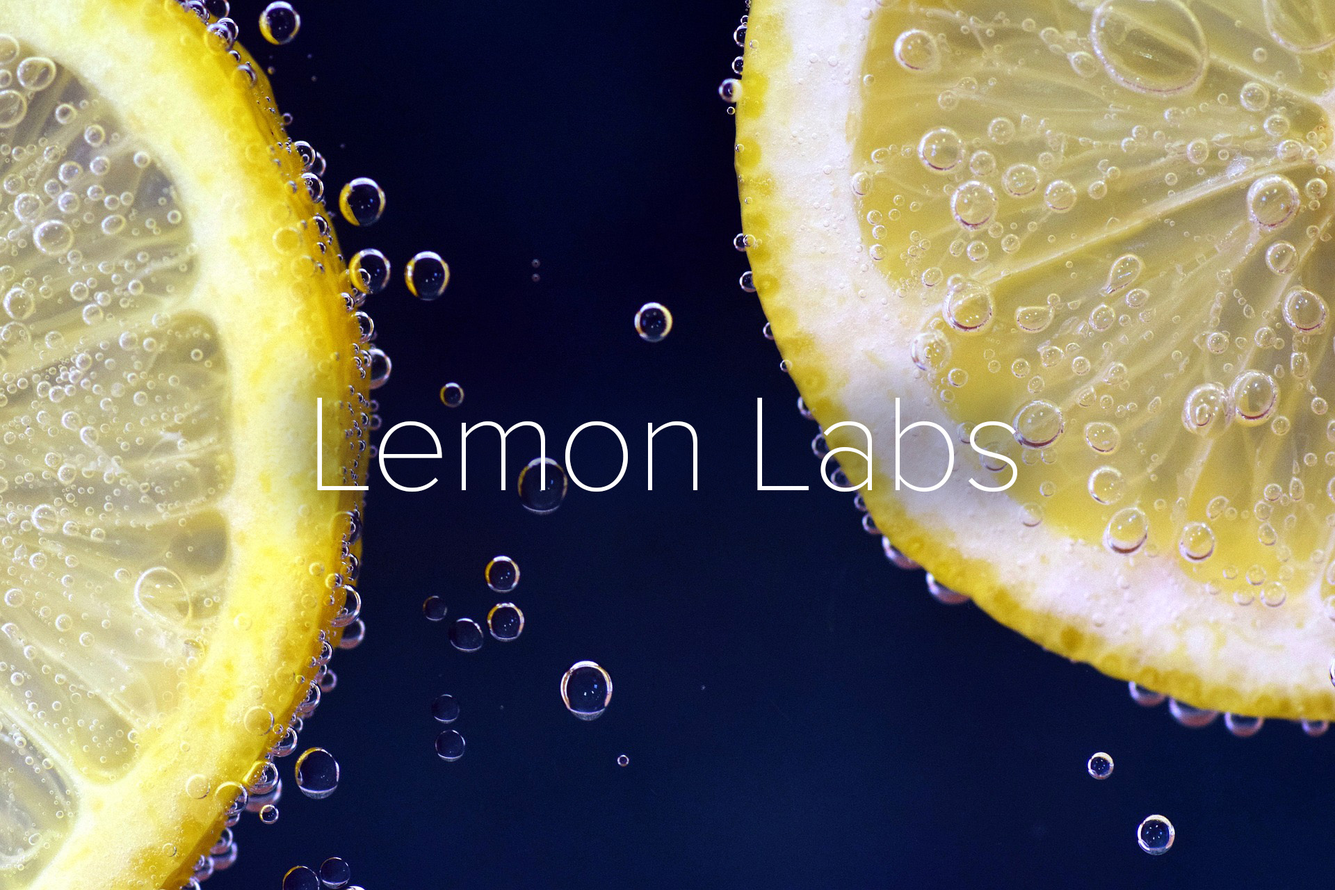
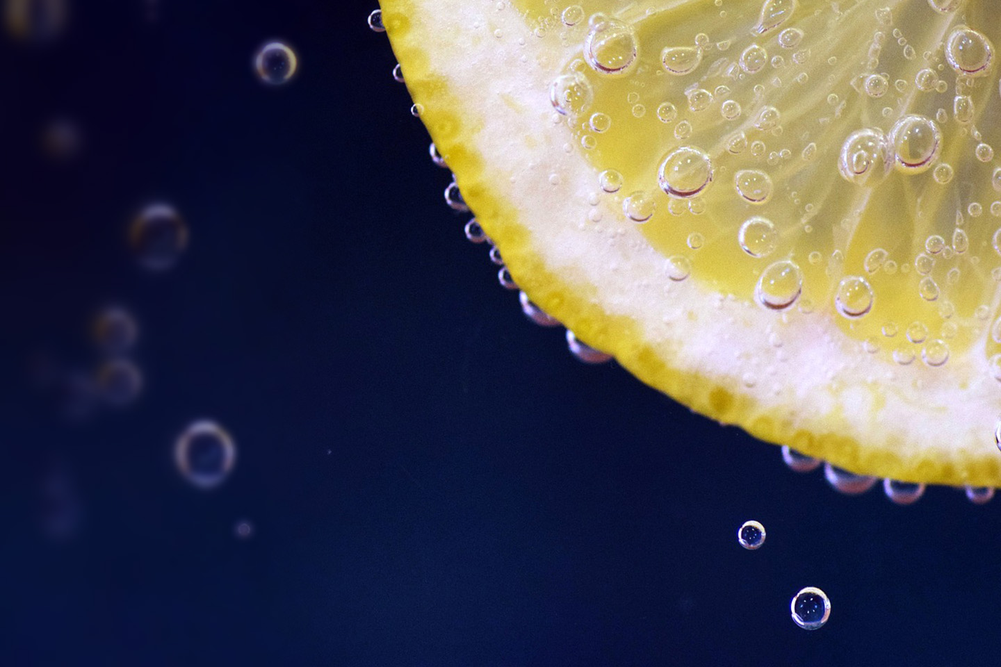
Play around with background image

diff --git a/_pages/travel.md b/_pages/travel.md
@@ -1,7 +1,7 @@
 ---
 permalink: /travel/
 
-title: ""
+title:  "Lemon Labs: Travel"
 layout: splash
 classes:
   - landing
@@ -12,7 +12,7 @@ header:
       url: https://goo.gl/forms/aS3m9uYfoZJDcvN53
 ---
 
-### Travel:
+### Travel
 
 Coming Soon
 

diff --git a/_pages/agenda.md b/_pages/agenda.md
@@ -1,7 +1,7 @@
 ---
 permalink: /agenda/
 
-title: ""
+title:  "Lemon Labs: Agenda"
 layout: splash
 classes:
   - landing

diff --git a/_pages/home.md b/_pages/home.md
@@ -1,7 +1,7 @@
 ---
 permalink: /
 
-title: ""
+title:  "Lemon Labs"
 layout: splash
 classes:
   - landing
